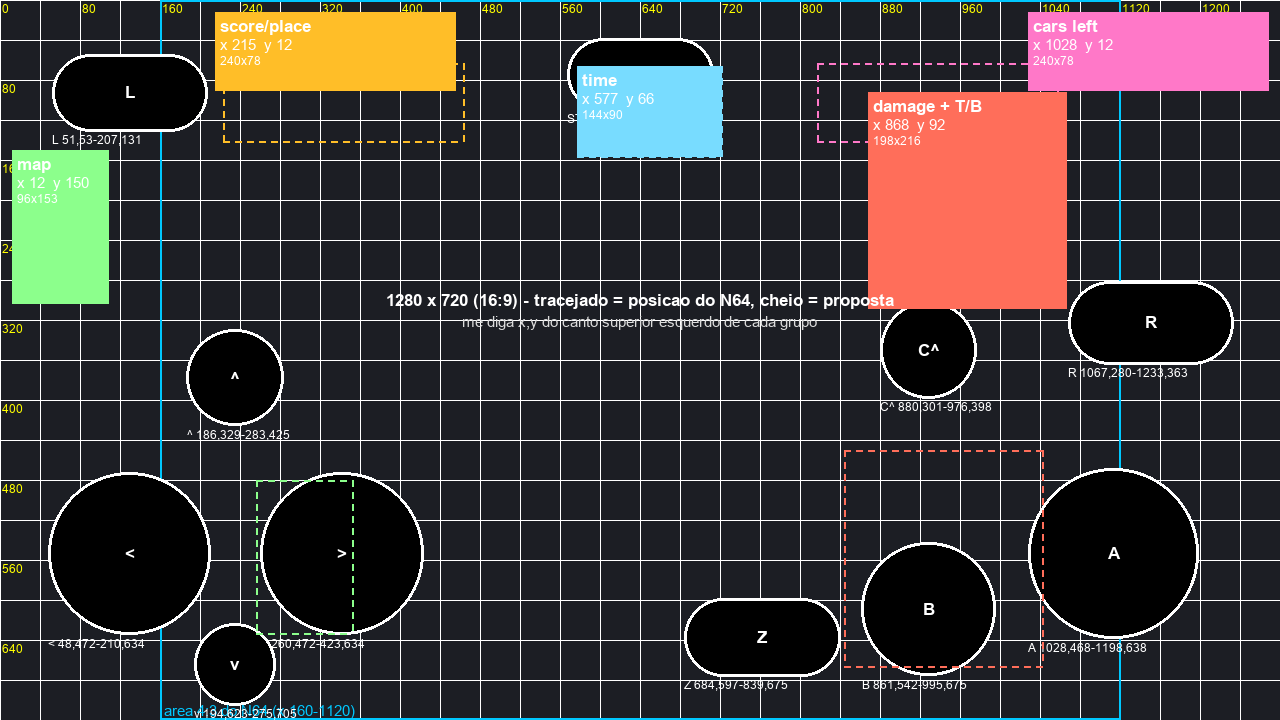
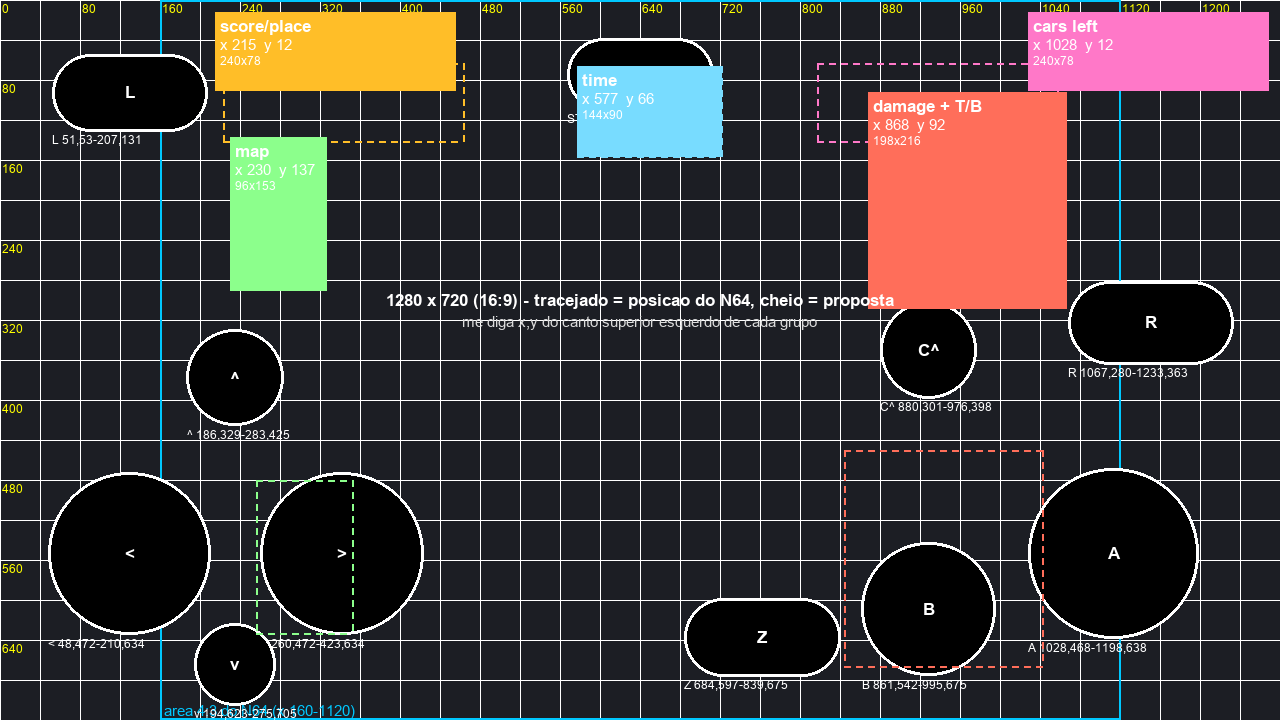
docs/HUD_LAYOUT.md: map default 230 137

Changed region(s): [[0.1562, 0.1833, 0.2812, 0.4278], [0.0, 0.1833, 0.0938, 0.4278]]

diff --git a/docs/HUD_LAYOUT.md b/docs/HUD_LAYOUT.md
@@ -24,7 +24,7 @@ start_lights = 0.40   ; size of the red / yellow / green start lights (1.00 = th
 score = 215 12        ; score/place, left edge   (240x78)
 time = -1 -1          ; centre                   (144x90), -1 -1 = the N64's place
 cars_left = 1028 12   ; right edge               (240x78)
-map = 12 150          ; left edge                (96x153)
+map = 230 137         ; left edge                (96x153)
 damage = 868 92       ; right edge: damage gauge + T/B bars (198x216)
 ```
 
